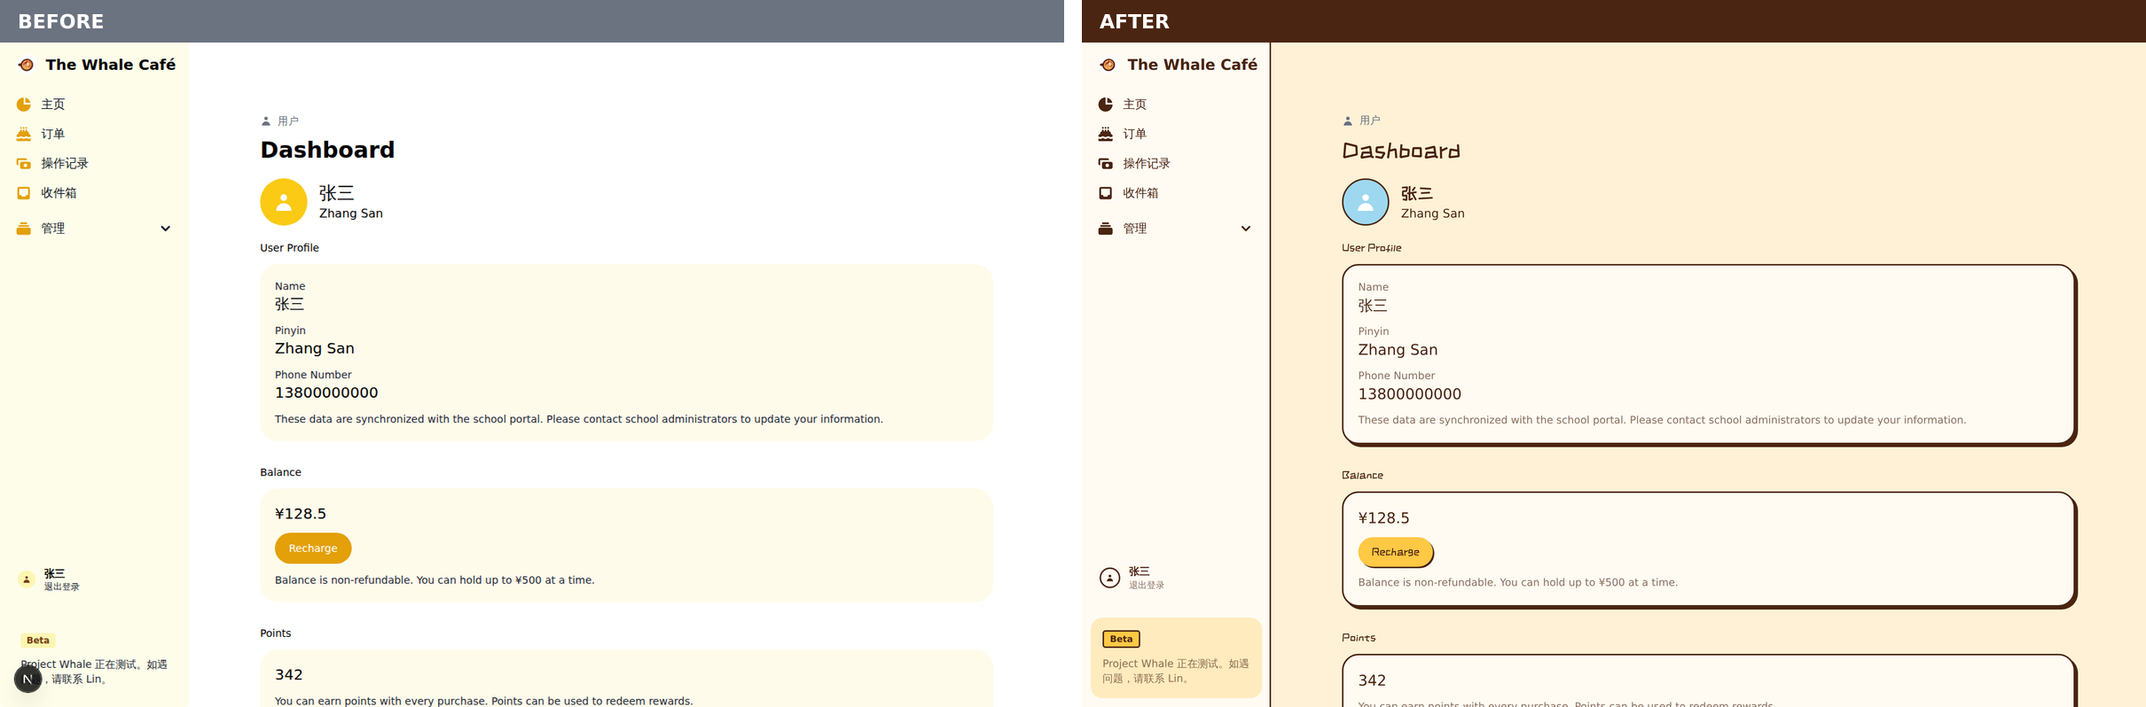
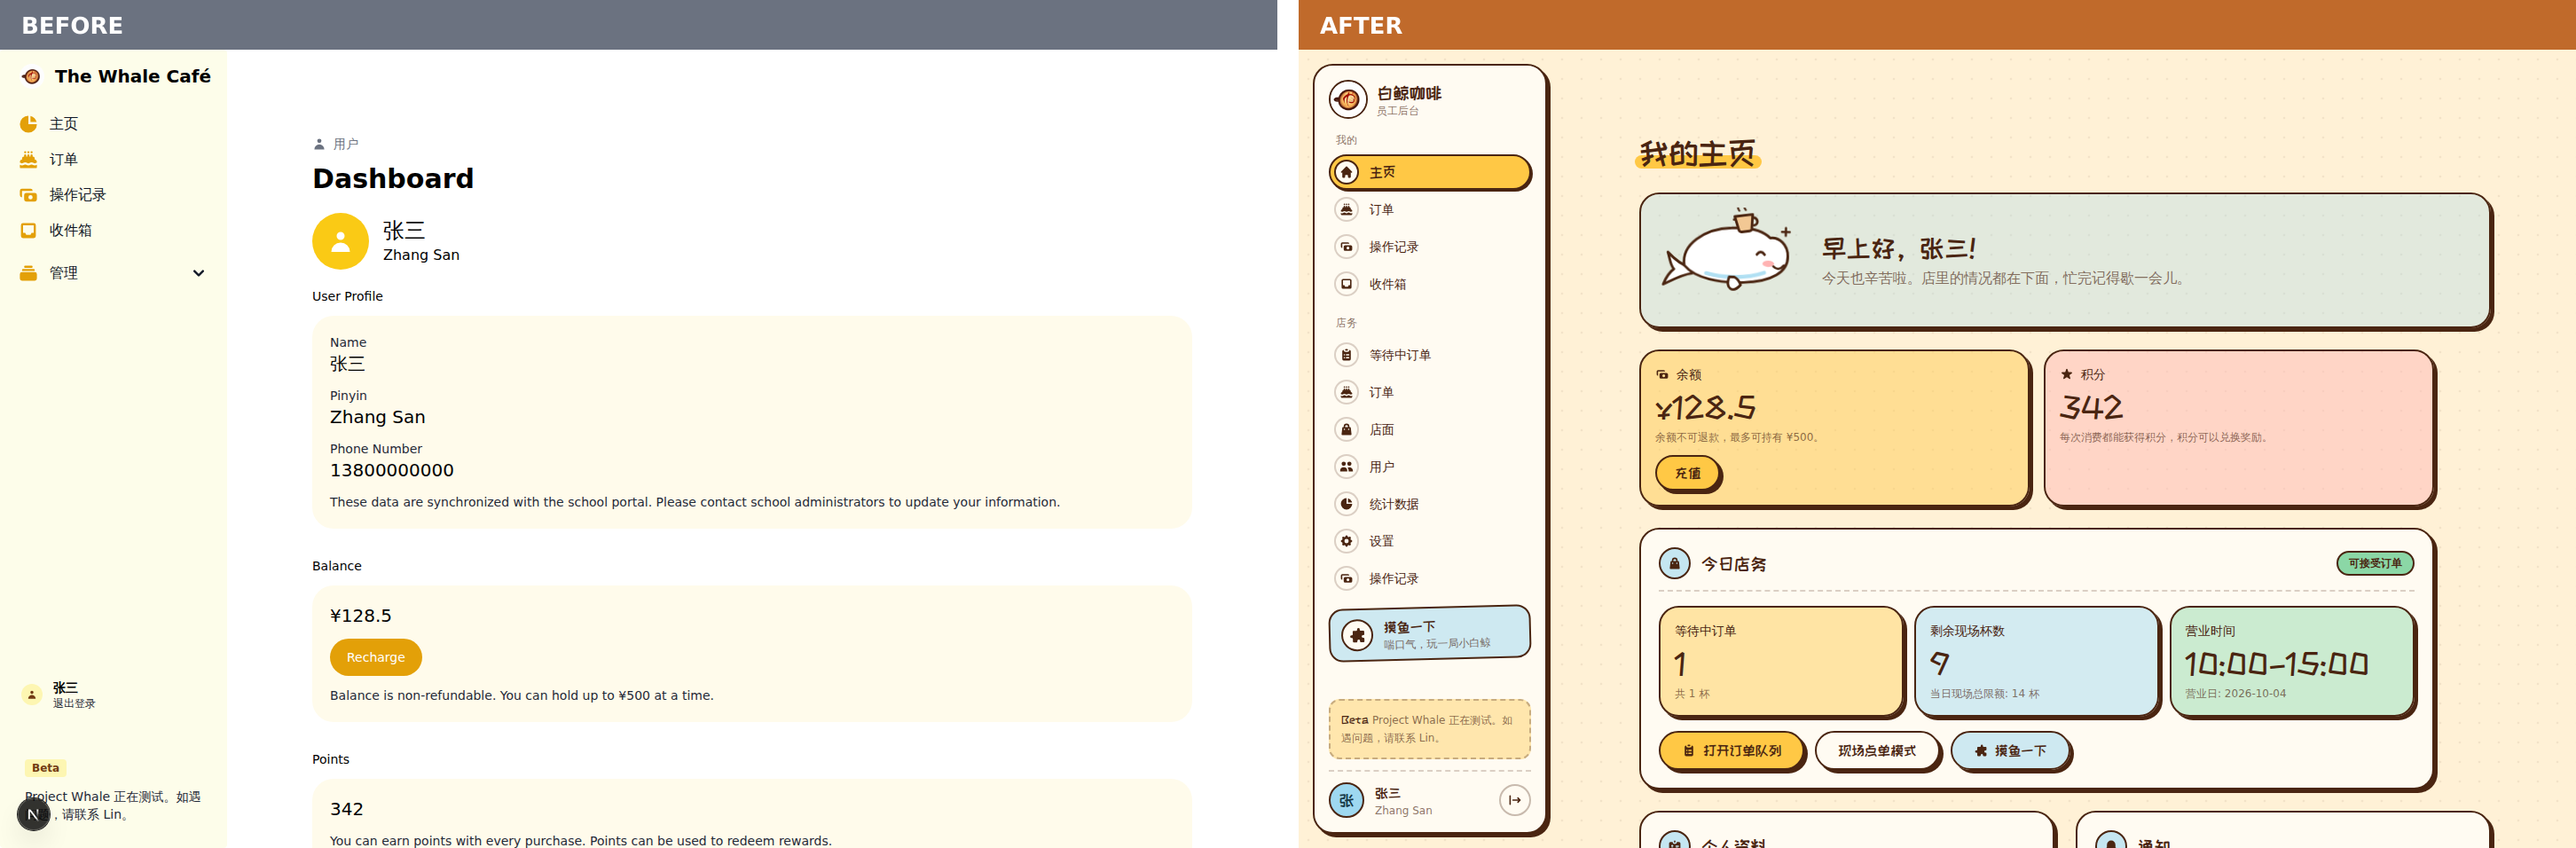
docs: staff area screenshots and design notes

diff --git a/README.md b/README.md
@@ -16,6 +16,8 @@ for the design rules.
 | Item details (desktop) | ![Item details, desktop](docs/screenshots/compare-item-overlay-desktop.png) |
 | Checkout (desktop) | ![Checkout, desktop](docs/screenshots/compare-checkout-desktop.png) |
 | User dashboard | ![User dashboard](docs/screenshots/compare-dashboard-desktop.png) |
+| Waiting orders (staff) | ![Waiting orders](docs/screenshots/compare-today-desktop.png) |
+| Orders (staff) | ![Orders](docs/screenshots/compare-manage-orders-desktop.png) |
 
 | Home (mobile) | Menu (mobile) |
 |---------------|---------------|
@@ -23,13 +25,35 @@ for the design rules.
 
 ### Current pages
 
-| Tray (desktop) | Order ticket | Waiting orders (staff) |
-|----------------|--------------|------------------------|
-| ![Tray](docs/screenshots/cart-desktop.png) | ![Order ticket](docs/screenshots/order-details-desktop.png) | ![Waiting orders](docs/screenshots/today-desktop.png) |
+| Tray (desktop) | Order ticket |
+|----------------|--------------|
+| ![Tray](docs/screenshots/cart-desktop.png) | ![Order ticket](docs/screenshots/order-details-desktop.png) |
 
 | Item details (mobile) | Tray (mobile) | Checkout (mobile) |
 |-----------------------|---------------|-------------------|
 | ![Item details, mobile](docs/screenshots/item-overlay-mobile.png) | ![Tray, mobile](docs/screenshots/cart-mobile.png) | ![Checkout, mobile](docs/screenshots/checkout-mobile.png) |
+
+### Staff area
+
+| Storefront | Product editor with menu preview |
+|------------|----------------------------------|
+| ![Storefront](docs/screenshots/admin-storefront-desktop.png) | ![Product editor](docs/screenshots/admin-item-editor-desktop.png) |
+
+| Settings | Statistics |
+|----------|------------|
+| ![Settings](docs/screenshots/admin-settings-desktop.png) | ![Statistics](docs/screenshots/admin-stats-desktop.png) |
+
+| Users | User details |
+|-------|--------------|
+| ![Users](docs/screenshots/admin-users-desktop.png) | ![User details](docs/screenshots/admin-user-desktop.png) |
+
+| Product details | Break game (摸鱼一下) |
+|-----------------|-----------------------|
+| ![Product details](docs/screenshots/admin-item-desktop.png) | ![Break game](docs/screenshots/admin-break-desktop.png) |
+
+| Dashboard (mobile) | Waiting orders (mobile) | Break game (mobile) |
+|--------------------|-------------------------|---------------------|
+| ![Dashboard, mobile](docs/screenshots/admin-dashboard-mobile.png) | ![Waiting orders, mobile](docs/screenshots/admin-today-mobile.png) | ![Break game, mobile](docs/screenshots/admin-break-play-mobile.png) |
 
 ## Get Started
 

diff --git a/docs/DESIGN.md b/docs/DESIGN.md
@@ -31,6 +31,25 @@ hand-made and playful, like stickers on a café counter, not like a generic app 
 - **Round product photos** with an ink outline, and price tags (`price-tag`) that look like stickers.
 - **Write like the café talks.** Short, warm, specific copy ("托盘空空的，挑一杯喜欢的吧～"), never filler.
 
+## Staff area
+
+- The dashboard layout (`src/app/user/layout.tsx`) has a sticker sidebar: the active page is a butter pill, and staff
+  get a second "店务" group plus the break game.
+- Page titles inside `main .container` get the highlighter stroke automatically (`globals.css`).
+- Shared pieces in `src/app/user/components/`: `Panel` (titled sticker section), `StatTile` (big number on a coloured
+  sticker), `OrderStatusChips` (order and payment status).
+- Detail pages put label/value pairs in a `.sheet` sticker: a `p.secondary` label followed by its value.
+- Flowbite tables, tabs, pagination, breadcrumbs and form fields are restyled once in the theme in `src/app/layout.tsx`,
+  so new pages pick up the style without extra classes.
+- The waiting-orders queue shows orders as paper tickets: the wait timer turns butter after 5 minutes and tomato after 10.
+
+### Break game (摸鱼一下)
+
+`/user/manage/break` is a small canvas game for staff: the beluga catches coffee beans (+1) and cups (+5) and dodges
+alarm clocks (the manager checking in). It reuses the mascot's SVG paths and reads colours from the CSS variables, so
+it follows dark mode. The best score is kept in `localStorage` only. `B` (or the 老板键 button) jumps to the
+order queue, and the game pauses when the tab is hidden.
+
 ## Don't
 
 - No gradients, glassmorphism, glows, blurred blobs or soft drop shadows.
